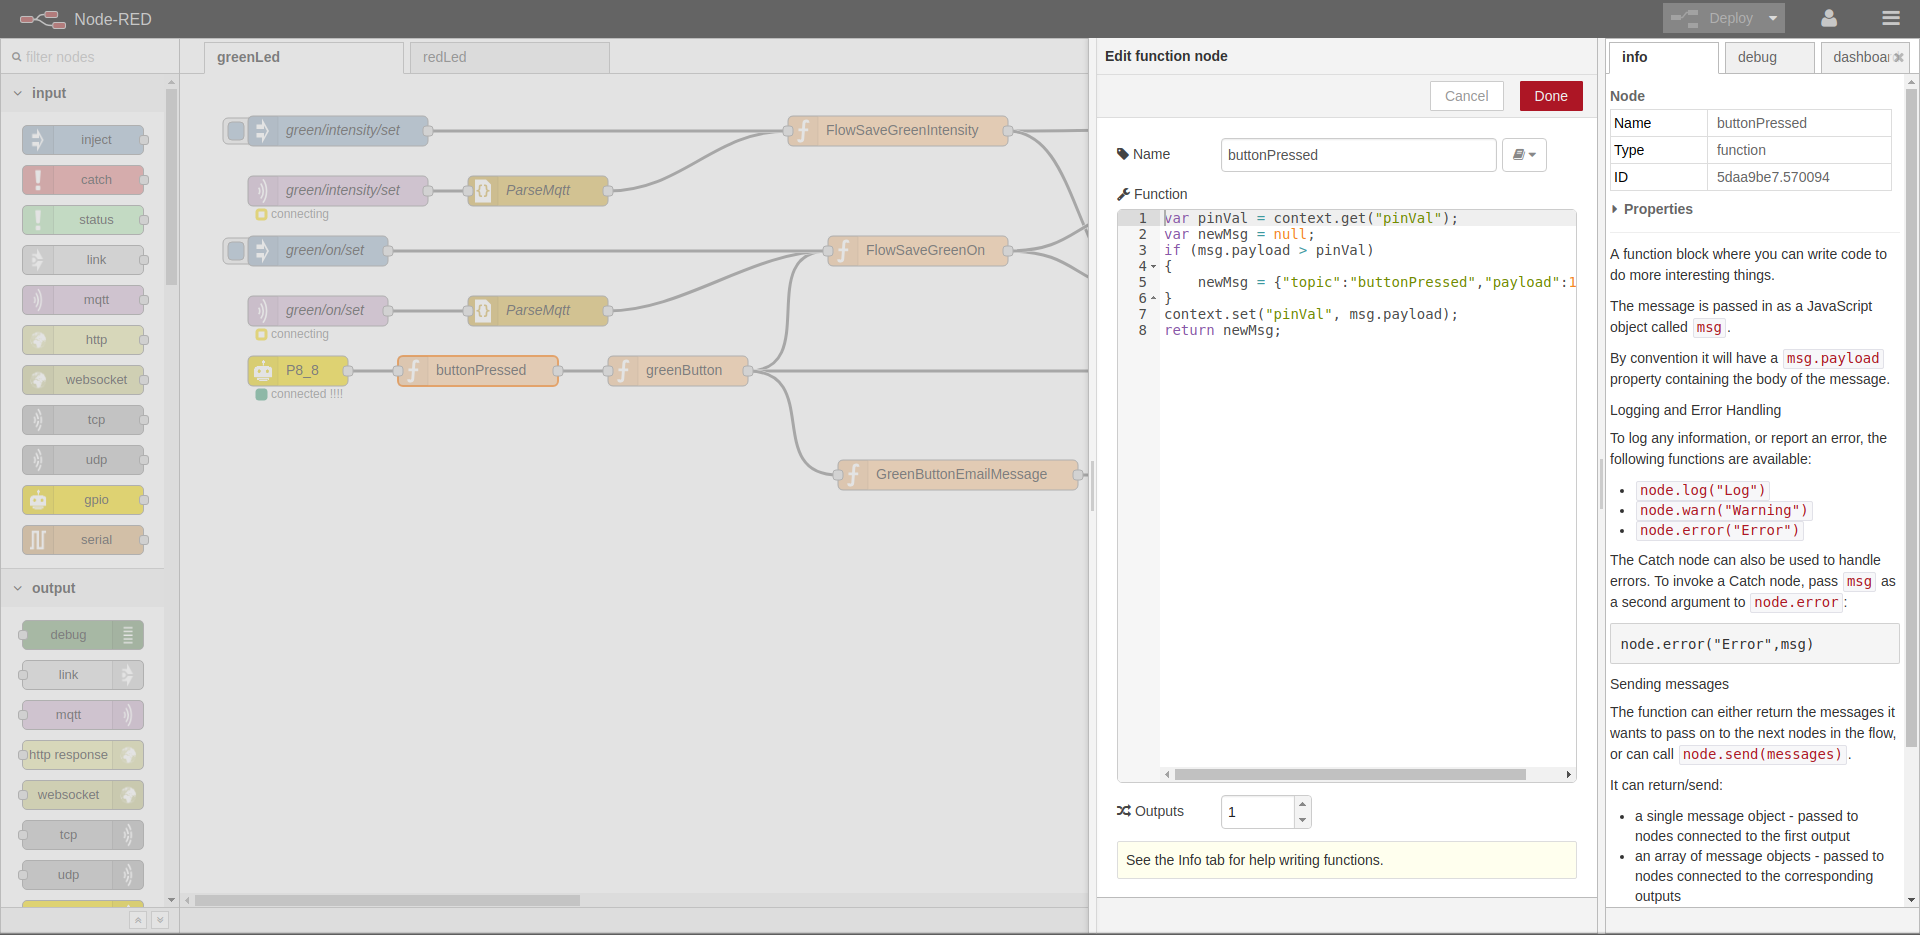
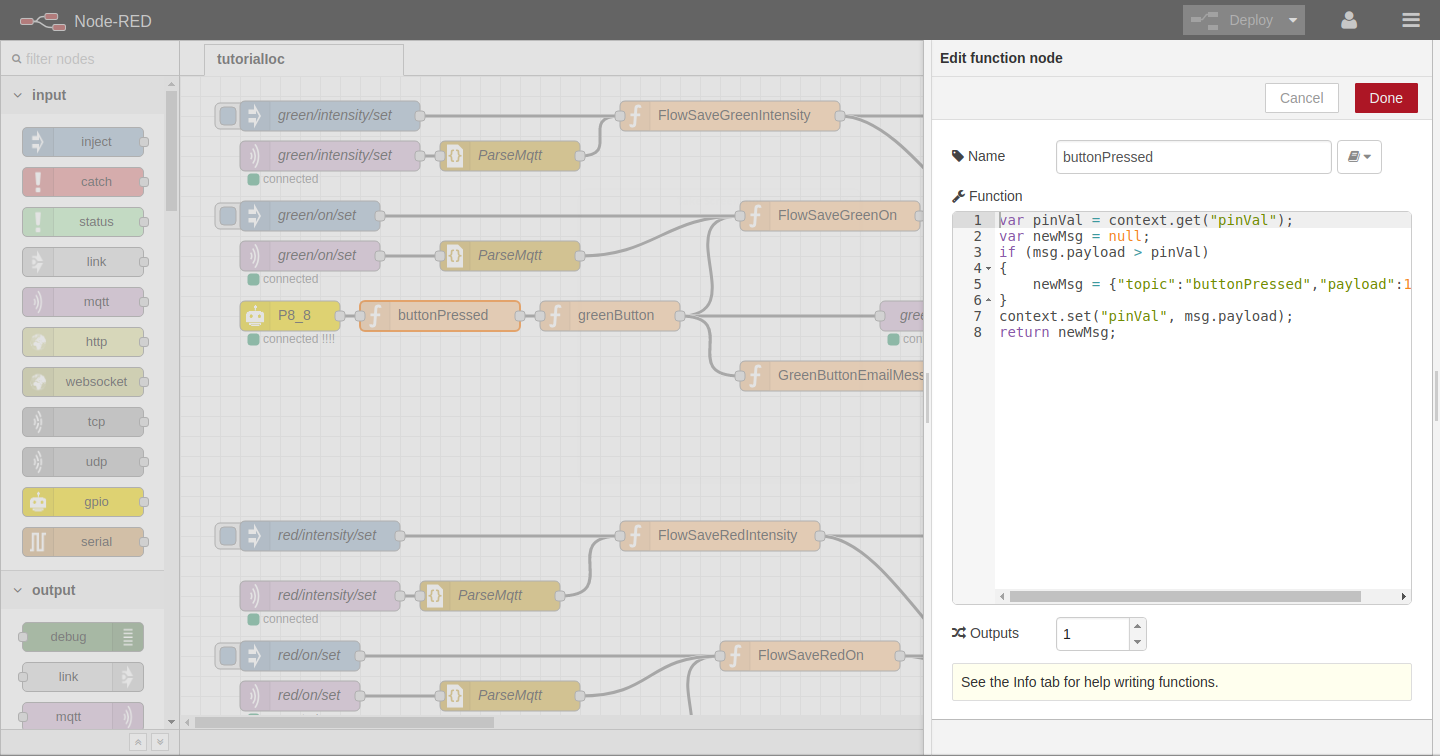
updated node red web app

Changed region(s): [[0.0, 0.0, 1.0, 1.0]]

diff --git a/tutorial/input-output-controller/configure-the-ioc-with-node-red.html b/tutorial/input-output-controller/configure-the-ioc-with-node-red.html
@@ -28,16 +28,16 @@ git clone https://github.com/yggdrasilView/flows.git</code></pre>
 							<li>Open the tutorial flow from the Libarary
 								<p>Open a browser and connect to Node-Red at <b>&lt;hostName&gt;.local:1880</b> where &lt;hostName&gt; is the host name of your BBBW
 									Click on the three horizontal bar icon on the upper right hand side of the node-red desktop to open the menu.
-									Navigate to <b><i>Import&gt;Library&gt;tutorial&gt;ioc&gt;greenLedFlow</i></b>.
+									Navigate to <b><i>Import&gt;Library&gt;tutorial&gt;ioc</i></b>.
 								</p>
 								<p>
-									The nodes for controlling the green LED appear.
+									The nodes for controlling the Ioc will appear.
 									Place the nodes how you would like on the screen. Rename the Flow tab by double clicking on the flow tab
 									and changing the name in the name field.
 								</p>
 								<center>
-									<a href="/images/tutorial/IocGreenLedFlowImported.png" target="_blank">
-										<img src="/images/tutorial/IocGreenLedFlowImported.png" width="609" height="250" />
+									<a href="/images/tutorial/ImportedIocFlow.png" target="_blank">
+										<img src="/images/tutorial/ImportedIocFlow.png" width="600" />
 									</a>
 								</center>
 							</li>
@@ -52,8 +52,8 @@ git clone https://github.com/yggdrasilView/flows.git</code></pre>
 									For the Client ID field under the Connection tab, use a unique identifier so that MQTT messages do not get mixed.
 								</p>
 								<center>
-									<a href="/images/tutorial/IocGreenLedFlowMqttInfo.png" target="_blank">
-										<img src="/images/tutorial/IocGreenLedFlowMqttInfo.png" width="536" height="250" />
+									<a href="/images/tutorial/IocMqttConfig.png" target="_blank">
+										<img src="/images/tutorial/IocMqttConfig.png" width="600"  />
 									</a>
 								</center>
 							</li>
@@ -63,44 +63,18 @@ git clone https://github.com/yggdrasilView/flows.git</code></pre>
 									All the blue dots should disappear from the screen and green connected boxes should appear underneath the MQTT flows and the gpio flows.
 								</p>
 								<center>
-									<a href="/images/tutorial/IocGreenLedFlowDeployed.png" target="_blank">
-										<img src="/images/tutorial/IocGreenLedFlowDeployed.png" width="617" height="250" />
+									<a href="/images/tutorial/IocDeployed.png" target="_blank">
+										<img src="/images/tutorial/IocDeployed.png" width="600" />
 									</a>
 								</center>
 							</li>
 							<li>Test the flow
 								<p>
-									Press the green LED button on the test device and observe messages generated on the MQTT broker.
+									Press the LED buttons on the test device and observe messages generated on the MQTT broker.
 								</p>
 								<center>
-									<a href="/images/tutorial/greenFlowIocShiftr.png" target="_blank">
-										<img src="/images/tutorial/greenFlowIocShiftr.png" width="340" height="250" />
-									</a>
-								</center>
-							</li>
-							<li> Add the Red LED Flow
-								<p>
-									Add a new tab to the nod-red desktop by clicking the <b>+</b> icon that is located just beneath the three horizontal bar main men icon.
-								</p>
-								<p>
-									Rename the new Flow tab to something more descriptivve by double clicking on the flow tab and changing the name in the name field.
-								</p>
-								<p>
-									Click on the three horizontal bar icon on the upper right hand side of the node-red desktop to open the main menu.
-									Navigate to <b><i>Import&gt;Library&gt;tutorial&gt;ioc&gt;redLedFlow</i></b>. The nodes for controlling the green LED appear.
-									Place the nodes how you would like on the screen.
-								</p>
-								<p>
-									Again edit the MQTT information as you have done with the Green LED flow.
-									However, make sure to use a different Client ID from the Green LED flow so that MQTT messages do not get mixed.
-								</p>
-								<p>
-									Deploy as you did with the Green LED flow and test the flow by pressing the red button an examining the MQTT output.
-									You should see a reaction on the MQTT broker similar to the image below.
-								</p>
-								<center>
-									<a href="/images/tutorial/redFlowIocShiftr.png" target="_blank">
-										<img src="/images/tutorial/redFlowIocShiftr.png" width="340" height="250" />
+									<a href="/images/tutorial/IocShiftr.png" target="_blank">
+										<img src="/images/tutorial/IocShiftr.png" width="600" />
 									</a>
 								</center>
 							</li>
@@ -108,15 +82,15 @@ git clone https://github.com/yggdrasilView/flows.git</code></pre>
 								<p>
 									The nice thing about the Node-Red flow diagram is that it makes the program self documenting.
 									However, you should take the time to examine what is contained inside each of the nodes contained in a node.
-									Below is a screen shot of <b><i>buttonPressed</i></b> node in the <b><i>greenLED</i></b> flow.
+									Below is a screen shot of the <b><i>buttonPressed</i></b> node.
 								</p>
 								<center>
 									<a href="/images/tutorial/exploreNodeInFlow.png" target="_blank">
-										<img src="/images/tutorial/exploreNodeInFlow.png" width="340" height="250" />
+										<img src="/images/tutorial/exploreNodeInFlow.png" width="600"  />
 									</a>
 								</center>
 								<p>
-									There are many tutorials bout how to use Node-Red. I recommend that you start from the
+									There are many tutorials about how to use Node-Red. I recommend that you start from the
 									<a href="https://nodered.org/docs/getting-started/first-flow" target="_blank">
 										offical Node-Red Website
 									</a>

diff --git a/tutorial/node-red-web-application.html b/tutorial/node-red-web-application.html
@@ -16,8 +16,101 @@
 				<div class="content">
 					<div class="item">
 						<h1>Node-Red Web Application</h1>
+						<p>
+							This part of the tutorial assumes that you have completed the section on
+							<a href="/tutorial/input-output-controller/configure-the-ioc-with-node-red.html" target="_blank">configuring the IOC with node-Red</a>
+						</p>
 						<ul>
-						 	<li>Coming Soon</li>
+						 	<li>Configure the Server
+								<p>
+									It is possible to run the user interface application on the same computer as the IOC
+									but usually the IOC is behind a firewall and then it
+									is not possible to access the web application from outside the firewall.
+									Also, it is good practice to separate the IOC computer from the web-server so that MQTT can act as a buffer
+									to shield many requests from users and protect the reliability of the IOC.
+									In any case the application server should have access to the general internet.
+								</p>
+								<p>
+									The web application server should have Node-Red installed. BeagleBones have Node-Red already installed.
+									For other linux computers such as Raspberry Pi's, you can follow installation instructions from the
+									<a href="https://nodered.org/docs/getting-started/installation" target="_blank">Node-Red web site</a>.
+								</p>
+							</li>
+							<li>Import the tutorial flow libraries into the application server
+								<p>In the application server, change the directory to library
+									directory for your node-red installation and clone the
+									<a href="https://github.com/yggdrasilView/flows" target="_blank">YggdrasilView flows repository</a>
+								</p>
+								<pre class="code-pre "><code langs="">cd ~/.node-red/lib
+git clone https://github.com/yggdrasilView/flows.git</code></pre>
+							</li>
+							<li>Open the tutorial flow from the Libarary
+								<p>Open a browser and connect to Node-Red at <b>&lt;web-server&gt;:1880</b> where &lt;web-server&gt;
+									is the host name or IP address of the application server where you have installed Node-Red.
+									Click on the three horizontal bar icon on the upper right hand side of the node-red desktop to open the menu.
+									Navigate to <b><i>Import&gt;Library&gt;tutorial&gt;webApp</i></b>.
+								</p>
+								<p>
+									The nodes for web application appear.
+									Place the nodes how you would like on the screen. Rename the Flow tab by double clicking on the flow tab
+									and changing the name in the name field.
+								</p>
+								<center>
+									<a href="/images/tutorial/ImportedWebAppFlow.png" target="_blank">
+										<img src="/images/tutorial/ImportedWebAppFlow.png" width="600" />
+									</a>
+								</center>
+							</li>
+							<li>Edit the MQTT information
+								<p>
+									The MQTT broker username and password needs to be entered into the MQTT nodes.
+									Double click on any MQTT node. (they are in light purple)
+									For example double click on the node labeled "green/intensity/set".
+									A dialog panel will open on the right side of the screen. Next to the <b><i>Server</i></b> field,
+									there is a pencil icon for editing the MQTT broker information.
+									Edit the MQTT broker information with the data for the MQTT broker you setup in the
+									<a href="/tutorial/setup-mqtt.html" target="_blank">previous section</a> of the tutorial.
+									For the Client ID field under the Connection tab, use a unique identifier so that MQTT messages do not get mixed.
+								</p>
+								<center>
+									<a href="/images/tutorial/WebAppMqttConfig.png" target="_blank">
+										<img src="/images/tutorial/WebAppMqttConfig.png" width="600" />
+									</a>
+								</center>
+							</li>
+							<li> Deploy the Flow
+								<p>
+									Once the MQTT information has been entered, click on the Deploy button in the upper right hand corner of the screen.
+									All the blue dots should disappear from the screen and green connected boxes should appear underneath the MQTT flows and the gpio flows.
+								</p>
+								<center>
+									<a href="/images/tutorial/WebAppFlowDeployed.png" target="_blank">
+										<img src="/images/tutorial/WebAppFlowDeployed.png" width="600" />
+									</a>
+								</center>
+								<p>
+									The MQTT broker will now show two connections. One connection
+									with the IOC and the other connection with the web application.
+								</p>
+								<center>
+									<a href="/images/tutorial/webAppShiftr.png" target="_blank">
+										<img src="/images/tutorial/webAppShiftr.png" width="600" />
+									</a>
+								</center>
+							</li>
+							<li> The Node-Red Dashboard
+								<p>
+									The flows that you just deployed uses
+									<a href="https://github.com/node-red/node-red-dashboard">node-red-dashboard</a> components.
+									The node-red dashboard is a great way to design a web-based control application easily.
+									<i>Please note that the node-red dashboard does NOT support multiple individual users.
+									It is a view of the status of the underlying Node-RED flow, which itself is single user.
+									If the state of the flow changes then all clients will get notified of that change.
+									For most control applications, this is the desired effect.</i>
+								</p>
+								<p>
+									The dashboard components used in these flows are the slider, on/off switch, and guage.
+								</p>
 						<ul>
 					</div>
 				</div>

diff --git a/tutorial/test-device-design.html b/tutorial/test-device-design.html
@@ -44,11 +44,11 @@
 								<td style="text-align: center;"><a href="/images/tutorial/demoPcbAct.jpg" target="_blank" rel="noopener">PCB Actual</a></td>
 							</tr>
 							<tr>
-								<td><a href="/images/tutorial/demoBreadBoardPhoto.jpg" target="_blank" rel="noopener"><img src="/images/tutorial/demoBreadBoardPhoto.jpg" width="156 height=200" /></a></td>
-								<td><a href="/images/tutorial/demoBreadBoard.png" target="_blank" rel="noopener"><img src="/images/tutorial/demoBreadBoard.png" alt="" width="154" height="200" /></a></td>
-								<td><a href="/images/tutorial/demoSchem.png" target="_blank" rel="noopener"><img src="/images/tutorial/demoSchem.png" alt="" width="260" height="200" /></a></td>
-								<td><a href="/images/tutorial/demoPcb.png" target="_blank" rel="noopener"><img src="/images/tutorial/demoPcb.png" alt="" width="158" height="200" /></a></td>
-								<td><a href="/images/tutorial/demoPcbAct.jpg" target="_blank" rel="noopener"><img src="/images/tutorial/demoPcbAct.jpg" alt="" width="276" height="200" /></a></td>
+								<td><a href="/images/tutorial/demoBreadBoardPhoto.jpg" target="_blank" rel="noopener"><img src="/images/tutorial/demoBreadBoardPhoto.jpg" height=130" /></a></td>
+								<td><a href="/images/tutorial/demoBreadBoard.png" target="_blank" rel="noopener"><img src="/images/tutorial/demoBreadBoard.png" height="130" /></a></td>
+								<td><a href="/images/tutorial/demoSchem.png" target="_blank" rel="noopener"><img src="/images/tutorial/demoSchem.png" height="130" /></a></td>
+								<td><a href="/images/tutorial/demoPcb.png" target="_blank" rel="noopener"><img src="/images/tutorial/demoPcb.png" height="130" /></a></td>
+								<td><a href="/images/tutorial/demoPcbAct.jpg" target="_blank" rel="noopener"><img src="/images/tutorial/demoPcbAct.jpg" height="130" /></a></td>
 							</tr>
 						</tbody></table>
 					</div>

diff --git a/tutorial/input-output-controller/setup-the-beaglebone-wireless/configure-node-red.html b/tutorial/input-output-controller/setup-the-beaglebone-wireless/configure-node-red.html
@@ -88,13 +88,13 @@ sudo npm install node-red-dashboard</code></pre>
 								<p>where <b>&lt;hostname&gt;</b> is the hostname of your BBBW. You should get the following splash screen</p>
 					 			<center>
 									<a href="/images/tutorial/nodeRedSplash.png" target="_blank">
-										<img src="/images/tutorial/nodeRedSplash.png" width="341" height="250" />
+										<img src="/images/tutorial/nodeRedSplash.png" width="600" />
 									</a>
 								</center>
 						 		<p>After entering the user name and password you put into the settings.js file, you should see the Node-Red desktop</p>
 						 		<center>
 									<a href="/images/tutorial/nodeRedDesktop.png" target="_blank">
-										<img src="/images/tutorial/nodeRedDesktop.png" alt="" width="331" height="250" />
+										<img src="/images/tutorial/nodeRedDesktop.png" alt="" width="600" />
 									</a>
 								</center>
 							</li>

diff --git a/index.html b/index.html
@@ -27,7 +27,7 @@
 						</ul>
 						<p>
 							<a href="/images/yggdrasilViewArchitecture.jpg" target="_blank" rel="noopener">
-								<img src="/images/yggdrasilViewArchitecture.jpg" />
+								<img src="/images/yggdrasilViewArchitecture.jpg" width="600"" />
 							</a>
 						</p>
 					</div>
